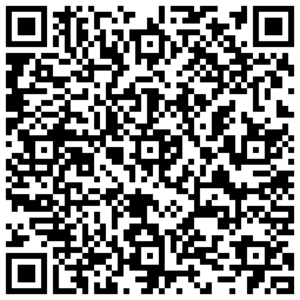
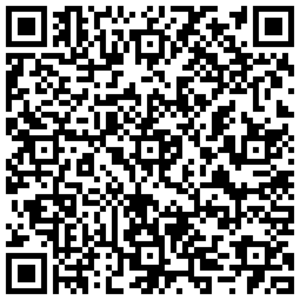
Update free configs - 2025-03-25

diff --git a/README.md b/README.md
@@ -1,6 +1,6 @@
 # 文档下方有很多可直接导入使用的高速节点/二维码订阅
 
-<p align='center'><strong>2025-03-24 12点准时更新每日免费节点，更多机场VPN优惠信息：<a href="https://vpn.tg10000.com">vpn.tg10000.com</a></strong></p>
+<p align='center'><strong>2025-03-25 12点准时更新每日免费节点，更多机场VPN优惠信息：<a href="https://vpn.tg10000.com">vpn.tg10000.com</a></strong></p>
 <p align='center'><strong>Telegram群:<a href="https://t.me/freevpn">@freevpntg</a></strong></p>
 
 
@@ -60,120 +60,120 @@
 
 <p align='center'><img src='img/1.png' alt='QR Code' width='300'></p>
 
-<p align='center'><code>ss://Y2hhY2hhMjAtaWV0Zi1wb2x5MTMwNTpiYWIzMTc2NC0xNjYxLTQyMjAtOWFjMy03MmFiZGZiM2YxMjA=@free.2weradf.xyz:36141#0%7C%F0%9F%87%AD%F0%9F%87%B0%20%E9%A6%99%E6%B8%AF%2001%20%7C%201x%20HK</code></p>
+<p align='center'><code>ss://Y2hhY2hhMjAtaWV0Zi1wb2x5MTMwNTplZmY4NTcxYy05ZjJhLTQ4NjEtOWZlMS0yNWJkZDYxYjM0OTc=@free.2weradf.xyz:36141#0%7C%F0%9F%87%AD%F0%9F%87%B0%20%E9%A6%99%E6%B8%AF%2001%20%7C%201x%20HK</code></p>
 
 <p align='center'><img src='img/2.png' alt='QR Code' width='300'></p>
 
-<p align='center'><code>ss://Y2hhY2hhMjAtaWV0Zi1wb2x5MTMwNTpiYWIzMTc2NC0xNjYxLTQyMjAtOWFjMy03MmFiZGZiM2YxMjA=@free.2weradf.xyz:36143#0%7C%F0%9F%87%AD%F0%9F%87%B0%20%E9%A6%99%E6%B8%AF%2002%20%7C%201x%20HK</code></p>
+<p align='center'><code>ss://Y2hhY2hhMjAtaWV0Zi1wb2x5MTMwNTplZmY4NTcxYy05ZjJhLTQ4NjEtOWZlMS0yNWJkZDYxYjM0OTc=@free.2weradf.xyz:36143#0%7C%F0%9F%87%AD%F0%9F%87%B0%20%E9%A6%99%E6%B8%AF%2002%20%7C%201x%20HK</code></p>
 
 <p align='center'><img src='img/3.png' alt='QR Code' width='300'></p>
 
-<p align='center'><code>ss://Y2hhY2hhMjAtaWV0Zi1wb2x5MTMwNTpiYWIzMTc2NC0xNjYxLTQyMjAtOWFjMy03MmFiZGZiM2YxMjA=@free.2weradf.xyz:36145#0%7C%F0%9F%87%AD%F0%9F%87%B0%20%E9%A6%99%E6%B8%AF%E4%BD%8F%E5%AE%85IP%2003%20%7C%201x%20HK</code></p>
+<p align='center'><code>ss://Y2hhY2hhMjAtaWV0Zi1wb2x5MTMwNTplZmY4NTcxYy05ZjJhLTQ4NjEtOWZlMS0yNWJkZDYxYjM0OTc=@free.2weradf.xyz:36145#0%7C%F0%9F%87%AD%F0%9F%87%B0%20%E9%A6%99%E6%B8%AF%E4%BD%8F%E5%AE%85IP%2003%20%7C%201x%20HK</code></p>
 
 <p align='center'><img src='img/4.png' alt='QR Code' width='300'></p>
 
-<p align='center'><code>ss://Y2hhY2hhMjAtaWV0Zi1wb2x5MTMwNTpiYWIzMTc2NC0xNjYxLTQyMjAtOWFjMy03MmFiZGZiM2YxMjA=@free.2weradf.xyz:36241#0%7C%F0%9F%87%B9%F0%9F%87%BC%20%E5%8F%B0%E6%B9%BE%2001%20%7C%201x%20TW</code></p>
+<p align='center'><code>ss://Y2hhY2hhMjAtaWV0Zi1wb2x5MTMwNTplZmY4NTcxYy05ZjJhLTQ4NjEtOWZlMS0yNWJkZDYxYjM0OTc=@free.2weradf.xyz:36241#0%7C%F0%9F%87%B9%F0%9F%87%BC%20%E5%8F%B0%E6%B9%BE%2001%20%7C%201x%20TW</code></p>
 
 <p align='center'><img src='img/5.png' alt='QR Code' width='300'></p>
 
-<p align='center'><code>ss://Y2hhY2hhMjAtaWV0Zi1wb2x5MTMwNTpiYWIzMTc2NC0xNjYxLTQyMjAtOWFjMy03MmFiZGZiM2YxMjA=@free.2weradf.xyz:36243#0%7C%F0%9F%87%B9%F0%9F%87%BC%20%E5%8F%B0%E6%B9%BE%2002%20%7C%201x%20TW</code></p>
+<p align='center'><code>ss://Y2hhY2hhMjAtaWV0Zi1wb2x5MTMwNTplZmY4NTcxYy05ZjJhLTQ4NjEtOWZlMS0yNWJkZDYxYjM0OTc=@free.2weradf.xyz:36243#0%7C%F0%9F%87%B9%F0%9F%87%BC%20%E5%8F%B0%E6%B9%BE%2002%20%7C%201x%20TW</code></p>
 
 <p align='center'><img src='img/6.png' alt='QR Code' width='300'></p>
 
-<p align='center'><code>ss://Y2hhY2hhMjAtaWV0Zi1wb2x5MTMwNTpiYWIzMTc2NC0xNjYxLTQyMjAtOWFjMy03MmFiZGZiM2YxMjA=@free.2weradf.xyz:36245#0%7C%F0%9F%87%B9%F0%9F%87%BC%20%E5%8F%B0%E6%B9%BE%2003%20%7C%201x%20TW</code></p>
+<p align='center'><code>ss://Y2hhY2hhMjAtaWV0Zi1wb2x5MTMwNTplZmY4NTcxYy05ZjJhLTQ4NjEtOWZlMS0yNWJkZDYxYjM0OTc=@free.2weradf.xyz:36245#0%7C%F0%9F%87%B9%F0%9F%87%BC%20%E5%8F%B0%E6%B9%BE%2003%20%7C%201x%20TW</code></p>
 
 <p align='center'><img src='img/7.png' alt='QR Code' width='300'></p>
 
-<p align='center'><code>ss://Y2hhY2hhMjAtaWV0Zi1wb2x5MTMwNTpiYWIzMTc2NC0xNjYxLTQyMjAtOWFjMy03MmFiZGZiM2YxMjA=@free.2weradf.xyz:36111#0%7C%F0%9F%87%AF%F0%9F%87%B5%20%E6%97%A5%E6%9C%AC%2001%20%7C%201x%20JP</code></p>
+<p align='center'><code>ss://Y2hhY2hhMjAtaWV0Zi1wb2x5MTMwNTplZmY4NTcxYy05ZjJhLTQ4NjEtOWZlMS0yNWJkZDYxYjM0OTc=@free.2weradf.xyz:36111#0%7C%F0%9F%87%AF%F0%9F%87%B5%20%E6%97%A5%E6%9C%AC%2001%20%7C%201x%20JP</code></p>
 
 <p align='center'><img src='img/8.png' alt='QR Code' width='300'></p>
 
-<p align='center'><code>ss://Y2hhY2hhMjAtaWV0Zi1wb2x5MTMwNTpiYWIzMTc2NC0xNjYxLTQyMjAtOWFjMy03MmFiZGZiM2YxMjA=@free.2weradf.xyz:36113#0%7C%F0%9F%87%AF%F0%9F%87%B5%20%E6%97%A5%E6%9C%AC%2002%20%7C%201x%20JP</code></p>
+<p align='center'><code>ss://Y2hhY2hhMjAtaWV0Zi1wb2x5MTMwNTplZmY4NTcxYy05ZjJhLTQ4NjEtOWZlMS0yNWJkZDYxYjM0OTc=@free.2weradf.xyz:36113#0%7C%F0%9F%87%AF%F0%9F%87%B5%20%E6%97%A5%E6%9C%AC%2002%20%7C%201x%20JP</code></p>
 
 <p align='center'><img src='img/9.png' alt='QR Code' width='300'></p>
 
-<p align='center'><code>ss://Y2hhY2hhMjAtaWV0Zi1wb2x5MTMwNTpiYWIzMTc2NC0xNjYxLTQyMjAtOWFjMy03MmFiZGZiM2YxMjA=@free.2weradf.xyz:36115#0%7C%F0%9F%87%AF%F0%9F%87%B5%20%E6%97%A5%E6%9C%AC%2003%20%7C%201x%20JP</code></p>
+<p align='center'><code>ss://Y2hhY2hhMjAtaWV0Zi1wb2x5MTMwNTplZmY4NTcxYy05ZjJhLTQ4NjEtOWZlMS0yNWJkZDYxYjM0OTc=@free.2weradf.xyz:36115#0%7C%F0%9F%87%AF%F0%9F%87%B5%20%E6%97%A5%E6%9C%AC%2003%20%7C%201x%20JP</code></p>
 
 <p align='center'><img src='img/10.png' alt='QR Code' width='300'></p>
 
-<p align='center'><code>ss://Y2hhY2hhMjAtaWV0Zi1wb2x5MTMwNTpiYWIzMTc2NC0xNjYxLTQyMjAtOWFjMy03MmFiZGZiM2YxMjA=@free.2weradf.xyz:36171#0%7C%F0%9F%87%B8%F0%9F%87%AC%20%E6%96%B0%E5%8A%A0%E5%9D%A1%2001%20%7C%201x%20SG</code></p>
+<p align='center'><code>ss://Y2hhY2hhMjAtaWV0Zi1wb2x5MTMwNTplZmY4NTcxYy05ZjJhLTQ4NjEtOWZlMS0yNWJkZDYxYjM0OTc=@free.2weradf.xyz:36171#0%7C%F0%9F%87%B8%F0%9F%87%AC%20%E6%96%B0%E5%8A%A0%E5%9D%A1%2001%20%7C%201x%20SG</code></p>
 
 <p align='center'><img src='img/11.png' alt='QR Code' width='300'></p>
 
-<p align='center'><code>ss://Y2hhY2hhMjAtaWV0Zi1wb2x5MTMwNTpiYWIzMTc2NC0xNjYxLTQyMjAtOWFjMy03MmFiZGZiM2YxMjA=@free.2weradf.xyz:36173#0%7C%F0%9F%87%B8%F0%9F%87%AC%20%E6%96%B0%E5%8A%A0%E5%9D%A1%2002%20%7C%201x%20SG</code></p>
+<p align='center'><code>ss://Y2hhY2hhMjAtaWV0Zi1wb2x5MTMwNTplZmY4NTcxYy05ZjJhLTQ4NjEtOWZlMS0yNWJkZDYxYjM0OTc=@free.2weradf.xyz:36173#0%7C%F0%9F%87%B8%F0%9F%87%AC%20%E6%96%B0%E5%8A%A0%E5%9D%A1%2002%20%7C%201x%20SG</code></p>
 
 <p align='center'><img src='img/12.png' alt='QR Code' width='300'></p>
 
-<p align='center'><code>ss://Y2hhY2hhMjAtaWV0Zi1wb2x5MTMwNTpiYWIzMTc2NC0xNjYxLTQyMjAtOWFjMy03MmFiZGZiM2YxMjA=@free.2weradf.xyz:36175#0%7C%F0%9F%87%B8%F0%9F%87%AC%20%E6%96%B0%E5%8A%A0%E5%9D%A1%2003%20%7C%201x%20SG</code></p>
+<p align='center'><code>ss://Y2hhY2hhMjAtaWV0Zi1wb2x5MTMwNTplZmY4NTcxYy05ZjJhLTQ4NjEtOWZlMS0yNWJkZDYxYjM0OTc=@free.2weradf.xyz:36175#0%7C%F0%9F%87%B8%F0%9F%87%AC%20%E6%96%B0%E5%8A%A0%E5%9D%A1%2003%20%7C%201x%20SG</code></p>
 
 <p align='center'><img src='img/13.png' alt='QR Code' width='300'></p>
 
-<p align='center'><code>ss://Y2hhY2hhMjAtaWV0Zi1wb2x5MTMwNTpiYWIzMTc2NC0xNjYxLTQyMjAtOWFjMy03MmFiZGZiM2YxMjA=@free.2weradf.xyz:36311#0%7C%F0%9F%87%B0%F0%9F%87%B7%20%E9%9F%A9%E5%9B%BD%2001%20%7C%201x%20KR</code></p>
+<p align='center'><code>ss://Y2hhY2hhMjAtaWV0Zi1wb2x5MTMwNTplZmY4NTcxYy05ZjJhLTQ4NjEtOWZlMS0yNWJkZDYxYjM0OTc=@free.2weradf.xyz:36311#0%7C%F0%9F%87%B0%F0%9F%87%B7%20%E9%9F%A9%E5%9B%BD%2001%20%7C%201x%20KR</code></p>
 
 <p align='center'><img src='img/14.png' alt='QR Code' width='300'></p>
 
-<p align='center'><code>ss://Y2hhY2hhMjAtaWV0Zi1wb2x5MTMwNTpiYWIzMTc2NC0xNjYxLTQyMjAtOWFjMy03MmFiZGZiM2YxMjA=@free.2weradf.xyz:36313#0%7C%F0%9F%87%B0%F0%9F%87%B7%20%E9%9F%A9%E5%9B%BD%2002%20%7C%201x%20KR</code></p>
+<p align='center'><code>ss://Y2hhY2hhMjAtaWV0Zi1wb2x5MTMwNTplZmY4NTcxYy05ZjJhLTQ4NjEtOWZlMS0yNWJkZDYxYjM0OTc=@free.2weradf.xyz:36313#0%7C%F0%9F%87%B0%F0%9F%87%B7%20%E9%9F%A9%E5%9B%BD%2002%20%7C%201x%20KR</code></p>
 
 <p align='center'><img src='img/15.png' alt='QR Code' width='300'></p>
 
-<p align='center'><code>ss://Y2hhY2hhMjAtaWV0Zi1wb2x5MTMwNTpiYWIzMTc2NC0xNjYxLTQyMjAtOWFjMy03MmFiZGZiM2YxMjA=@free.2weradf.xyz:36341#0%7C%F0%9F%87%B5%F0%9F%87%AD%20%E8%8F%B2%E5%BE%8B%E5%AE%BE%2001%20%7C%201x%20PH</code></p>
+<p align='center'><code>ss://Y2hhY2hhMjAtaWV0Zi1wb2x5MTMwNTplZmY4NTcxYy05ZjJhLTQ4NjEtOWZlMS0yNWJkZDYxYjM0OTc=@free.2weradf.xyz:36341#0%7C%F0%9F%87%B5%F0%9F%87%AD%20%E8%8F%B2%E5%BE%8B%E5%AE%BE%2001%20%7C%201x%20PH</code></p>
 
 <p align='center'><img src='img/16.png' alt='QR Code' width='300'></p>
 
-<p align='center'><code>ss://Y2hhY2hhMjAtaWV0Zi1wb2x5MTMwNTpiYWIzMTc2NC0xNjYxLTQyMjAtOWFjMy03MmFiZGZiM2YxMjA=@free.2weradf.xyz:36211#0%7C%F0%9F%87%BA%F0%9F%87%B8%20%E7%BE%8E%E5%9B%BD%2001%20%7C%201x%20US%20Los%20Angeles</code></p>
+<p align='center'><code>ss://Y2hhY2hhMjAtaWV0Zi1wb2x5MTMwNTplZmY4NTcxYy05ZjJhLTQ4NjEtOWZlMS0yNWJkZDYxYjM0OTc=@free.2weradf.xyz:36211#0%7C%F0%9F%87%BA%F0%9F%87%B8%20%E7%BE%8E%E5%9B%BD%2001%20%7C%201x%20US%20Los%20Angeles</code></p>
 
 <p align='center'><img src='img/17.png' alt='QR Code' width='300'></p>
 
-<p align='center'><code>ss://Y2hhY2hhMjAtaWV0Zi1wb2x5MTMwNTpiYWIzMTc2NC0xNjYxLTQyMjAtOWFjMy03MmFiZGZiM2YxMjA=@free.2weradf.xyz:36213#0%7C%F0%9F%87%BA%F0%9F%87%B8%20%E7%BE%8E%E5%9B%BD%E4%BD%8F%E5%AE%85IP%2002%20%7C%201x%20US%20Los%20Angel...</code></p>
+<p align='center'><code>ss://Y2hhY2hhMjAtaWV0Zi1wb2x5MTMwNTplZmY4NTcxYy05ZjJhLTQ4NjEtOWZlMS0yNWJkZDYxYjM0OTc=@free.2weradf.xyz:36213#0%7C%F0%9F%87%BA%F0%9F%87%B8%20%E7%BE%8E%E5%9B%BD%E4%BD%8F%E5%AE%85IP%2002%20%7C%201x%20US%20Los%20Angel...</code></p>
 
 <p align='center'><img src='img/18.png' alt='QR Code' width='300'></p>
 
-<p align='center'><code>ss://Y2hhY2hhMjAtaWV0Zi1wb2x5MTMwNTpiYWIzMTc2NC0xNjYxLTQyMjAtOWFjMy03MmFiZGZiM2YxMjA=@free.2weradf.xyz:36215#0%7C%F0%9F%87%BA%F0%9F%87%B8%20%E7%BE%8E%E5%9B%BD%2003%20%7C%201x%20US%20Washington</code></p>
+<p align='center'><code>ss://Y2hhY2hhMjAtaWV0Zi1wb2x5MTMwNTplZmY4NTcxYy05ZjJhLTQ4NjEtOWZlMS0yNWJkZDYxYjM0OTc=@free.2weradf.xyz:36215#0%7C%F0%9F%87%BA%F0%9F%87%B8%20%E7%BE%8E%E5%9B%BD%2003%20%7C%201x%20US%20Washington</code></p>
 
 <p align='center'><img src='img/19.png' alt='QR Code' width='300'></p>
 
-<p align='center'><code>ss://Y2hhY2hhMjAtaWV0Zi1wb2x5MTMwNTpiYWIzMTc2NC0xNjYxLTQyMjAtOWFjMy03MmFiZGZiM2YxMjA=@free.2weradf.xyz:36271#0%7C%F0%9F%87%AC%F0%9F%87%A7%20%E8%8B%B1%E5%9B%BD%E4%BD%8F%E5%AE%85IP%2001%20%7C%201x%20UK</code></p>
+<p align='center'><code>ss://Y2hhY2hhMjAtaWV0Zi1wb2x5MTMwNTplZmY4NTcxYy05ZjJhLTQ4NjEtOWZlMS0yNWJkZDYxYjM0OTc=@free.2weradf.xyz:36271#0%7C%F0%9F%87%AC%F0%9F%87%A7%20%E8%8B%B1%E5%9B%BD%E4%BD%8F%E5%AE%85IP%2001%20%7C%201x%20UK</code></p>
 
 <p align='center'><img src='img/20.png' alt='QR Code' width='300'></p>
 
-<p align='center'><code>ss://Y2hhY2hhMjAtaWV0Zi1wb2x5MTMwNTpiYWIzMTc2NC0xNjYxLTQyMjAtOWFjMy03MmFiZGZiM2YxMjA=@free.2weradf.xyz:36721#0%7C%F0%9F%87%B2%F0%9F%87%BE%E9%A9%AC%E6%9D%A5%E8%A5%BF%E4%BA%9A%2001%20%7C%201x%20MY</code></p>
+<p align='center'><code>ss://Y2hhY2hhMjAtaWV0Zi1wb2x5MTMwNTplZmY4NTcxYy05ZjJhLTQ4NjEtOWZlMS0yNWJkZDYxYjM0OTc=@free.2weradf.xyz:36721#0%7C%F0%9F%87%B2%F0%9F%87%BE%E9%A9%AC%E6%9D%A5%E8%A5%BF%E4%BA%9A%2001%20%7C%201x%20MY</code></p>
 
 <p align='center'><img src='img/21.png' alt='QR Code' width='300'></p>
 
-<p align='center'><code>ss://Y2hhY2hhMjAtaWV0Zi1wb2x5MTMwNTpiYWIzMTc2NC0xNjYxLTQyMjAtOWFjMy03MmFiZGZiM2YxMjA=@free.2weradf.xyz:36741#0%7C%F0%9F%87%AE%F0%9F%87%B3%E8%A5%BF%E7%8F%AD%E7%89%99%2001%20%7C%201x%20ES</code></p>
+<p align='center'><code>ss://Y2hhY2hhMjAtaWV0Zi1wb2x5MTMwNTplZmY4NTcxYy05ZjJhLTQ4NjEtOWZlMS0yNWJkZDYxYjM0OTc=@free.2weradf.xyz:36741#0%7C%F0%9F%87%AE%F0%9F%87%B3%E8%A5%BF%E7%8F%AD%E7%89%99%2001%20%7C%201x%20ES</code></p>
 
 <p align='center'><img src='img/22.png' alt='QR Code' width='300'></p>
 
-<p align='center'><code>ss://Y2hhY2hhMjAtaWV0Zi1wb2x5MTMwNTpiYWIzMTc2NC0xNjYxLTQyMjAtOWFjMy03MmFiZGZiM2YxMjA=@free.2weradf.xyz:36731#0%7C%F0%9F%87%B9%F0%9F%87%AD%E6%B3%B0%E5%9B%BD%2001%20%7C%201x%20TH</code></p>
+<p align='center'><code>ss://Y2hhY2hhMjAtaWV0Zi1wb2x5MTMwNTplZmY4NTcxYy05ZjJhLTQ4NjEtOWZlMS0yNWJkZDYxYjM0OTc=@free.2weradf.xyz:36731#0%7C%F0%9F%87%B9%F0%9F%87%AD%E6%B3%B0%E5%9B%BD%2001%20%7C%201x%20TH</code></p>
 
 <p align='center'><img src='img/23.png' alt='QR Code' width='300'></p>
 
-<p align='center'><code>ss://Y2hhY2hhMjAtaWV0Zi1wb2x5MTMwNTpiYWIzMTc2NC0xNjYxLTQyMjAtOWFjMy03MmFiZGZiM2YxMjA=@free.2weradf.xyz:36371#0%7C%F0%9F%87%AE%F0%9F%87%B3%20%E5%8D%B0%E5%BA%A6%2001%20%7C%201x%20IN</code></p>
+<p align='center'><code>ss://Y2hhY2hhMjAtaWV0Zi1wb2x5MTMwNTplZmY4NTcxYy05ZjJhLTQ4NjEtOWZlMS0yNWJkZDYxYjM0OTc=@free.2weradf.xyz:36371#0%7C%F0%9F%87%AE%F0%9F%87%B3%20%E5%8D%B0%E5%BA%A6%2001%20%7C%201x%20IN</code></p>
 
 <p align='center'><img src='img/24.png' alt='QR Code' width='300'></p>
 
-<p align='center'><code>ss://Y2hhY2hhMjAtaWV0Zi1wb2x5MTMwNTpiYWIzMTc2NC0xNjYxLTQyMjAtOWFjMy03MmFiZGZiM2YxMjA=@free.2weradf.xyz:36411#0%7C%F0%9F%87%A6%F0%9F%87%BA%20%E6%BE%B3%E5%A4%A7%E5%88%A9%E4%BA%9A%2001%20%7C%201x%20AU</code></p>
+<p align='center'><code>ss://Y2hhY2hhMjAtaWV0Zi1wb2x5MTMwNTplZmY4NTcxYy05ZjJhLTQ4NjEtOWZlMS0yNWJkZDYxYjM0OTc=@free.2weradf.xyz:36411#0%7C%F0%9F%87%A6%F0%9F%87%BA%20%E6%BE%B3%E5%A4%A7%E5%88%A9%E4%BA%9A%2001%20%7C%201x%20AU</code></p>
 
 <p align='center'><img src='img/25.png' alt='QR Code' width='300'></p>
 
-<p align='center'><code>ss://Y2hhY2hhMjAtaWV0Zi1wb2x5MTMwNTpiYWIzMTc2NC0xNjYxLTQyMjAtOWFjMy03MmFiZGZiM2YxMjA=@free.2weradf.xyz:36441#0%7C%F0%9F%87%A8%F0%9F%87%A6%20%E5%8A%A0%E6%8B%BF%E5%A4%A7%2001%20%7C%201x%20CA</code></p>
+<p align='center'><code>ss://Y2hhY2hhMjAtaWV0Zi1wb2x5MTMwNTplZmY4NTcxYy05ZjJhLTQ4NjEtOWZlMS0yNWJkZDYxYjM0OTc=@free.2weradf.xyz:36441#0%7C%F0%9F%87%A8%F0%9F%87%A6%20%E5%8A%A0%E6%8B%BF%E5%A4%A7%2001%20%7C%201x%20CA</code></p>
 
 <p align='center'><img src='img/26.png' alt='QR Code' width='300'></p>
 
-<p align='center'><code>ss://Y2hhY2hhMjAtaWV0Zi1wb2x5MTMwNTpiYWIzMTc2NC0xNjYxLTQyMjAtOWFjMy03MmFiZGZiM2YxMjA=@free.2weradf.xyz:36471#0%7C%F0%9F%87%A9%F0%9F%87%AA%20%E5%BE%B7%E5%9B%BD%2001%20%7C%201x%20DE</code></p>
+<p align='center'><code>ss://Y2hhY2hhMjAtaWV0Zi1wb2x5MTMwNTplZmY4NTcxYy05ZjJhLTQ4NjEtOWZlMS0yNWJkZDYxYjM0OTc=@free.2weradf.xyz:36471#0%7C%F0%9F%87%A9%F0%9F%87%AA%20%E5%BE%B7%E5%9B%BD%2001%20%7C%201x%20DE</code></p>
 
 <p align='center'><img src='img/27.png' alt='QR Code' width='300'></p>
 
-<p align='center'><code>ss://Y2hhY2hhMjAtaWV0Zi1wb2x5MTMwNTpiYWIzMTc2NC0xNjYxLTQyMjAtOWFjMy03MmFiZGZiM2YxMjA=@free.2weradf.xyz:36511#0%7C%F0%9F%87%B7%F0%9F%87%BA%20%E4%BF%84%E7%BD%97%E6%96%AF%2001%20%7C%201x%20RU</code></p>
+<p align='center'><code>ss://Y2hhY2hhMjAtaWV0Zi1wb2x5MTMwNTplZmY4NTcxYy05ZjJhLTQ4NjEtOWZlMS0yNWJkZDYxYjM0OTc=@free.2weradf.xyz:36511#0%7C%F0%9F%87%B7%F0%9F%87%BA%20%E4%BF%84%E7%BD%97%E6%96%AF%2001%20%7C%201x%20RU</code></p>
 
 <p align='center'><img src='img/28.png' alt='QR Code' width='300'></p>
 
-<p align='center'><code>ss://Y2hhY2hhMjAtaWV0Zi1wb2x5MTMwNTpiYWIzMTc2NC0xNjYxLTQyMjAtOWFjMy03MmFiZGZiM2YxMjA=@free.2weradf.xyz:36571#0%7C%F0%9F%87%B9%F0%9F%87%B7%20%E5%9C%9F%E8%80%B3%E5%85%B6%2001%20%7C%201x%20TR</code></p>
+<p align='center'><code>ss://Y2hhY2hhMjAtaWV0Zi1wb2x5MTMwNTplZmY4NTcxYy05ZjJhLTQ4NjEtOWZlMS0yNWJkZDYxYjM0OTc=@free.2weradf.xyz:36571#0%7C%F0%9F%87%B9%F0%9F%87%B7%20%E5%9C%9F%E8%80%B3%E5%85%B6%2001%20%7C%201x%20TR</code></p>
 
 <p align='center'><img src='img/29.png' alt='QR Code' width='300'></p>
 
-<p align='center'><code>ss://Y2hhY2hhMjAtaWV0Zi1wb2x5MTMwNTpiYWIzMTc2NC0xNjYxLTQyMjAtOWFjMy03MmFiZGZiM2YxMjA=@free.2weradf.xyz:36611#0%7C%F0%9F%87%BA%F0%9F%87%A6%20%E4%B9%8C%E5%85%8B%E5%85%B0%2001%20%7C%201x%20UA</code></p>
+<p align='center'><code>ss://Y2hhY2hhMjAtaWV0Zi1wb2x5MTMwNTplZmY4NTcxYy05ZjJhLTQ4NjEtOWZlMS0yNWJkZDYxYjM0OTc=@free.2weradf.xyz:36611#0%7C%F0%9F%87%BA%F0%9F%87%A6%20%E4%B9%8C%E5%85%8B%E5%85%B0%2001%20%7C%201x%20UA</code></p>
 
 <p align='center'><img src='img/30.png' alt='QR Code' width='300'></p>
 
-<p align='center'><code>ss://Y2hhY2hhMjAtaWV0Zi1wb2x5MTMwNTpiYWIzMTc2NC0xNjYxLTQyMjAtOWFjMy03MmFiZGZiM2YxMjA=@free.2weradf.xyz:36641#0%7C%F0%9F%87%BB%F0%9F%87%B3%20%E8%B6%8A%E5%8D%97%2001%20%7C%201x%20VN</code></p>
+<p align='center'><code>ss://Y2hhY2hhMjAtaWV0Zi1wb2x5MTMwNTplZmY4NTcxYy05ZjJhLTQ4NjEtOWZlMS0yNWJkZDYxYjM0OTc=@free.2weradf.xyz:36641#0%7C%F0%9F%87%BB%F0%9F%87%B3%20%E8%B6%8A%E5%8D%97%2001%20%7C%201x%20VN</code></p>
